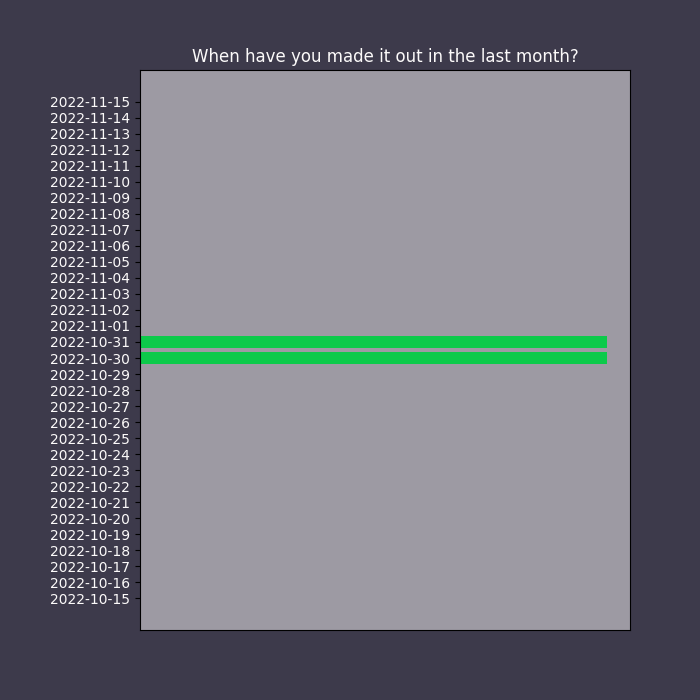
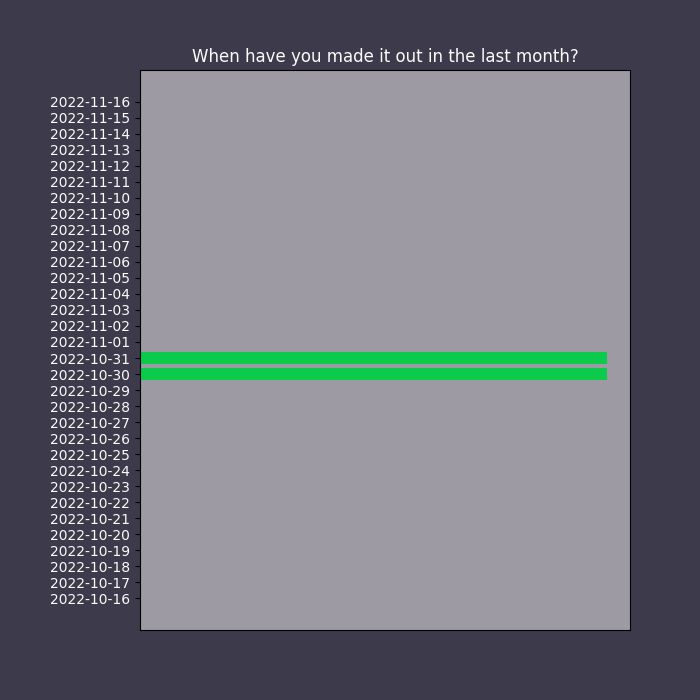
heatmap live

diff --git a/static/css/style.css b/static/css/style.css
@@ -3,7 +3,7 @@
     --darkish-grey: #6d6a77;
     --lighter-grey: #9d9aa3;
     --offwhite: #fcfafa;
-    --lightest-grey: c8d3d5;
+    --lightest-grey: #c8d3d5;
     --grey-blue: #a4b8c4;
     --accent-green: #0cca4a;
 }
@@ -17,23 +17,28 @@ body {
     
 }
 
+#climber-monthly-graph {
+    width: 300px;
+    border: solid 5px #3d3a4b;
+}
+
 #page-wrapper {
     display: flex;
     flex-direction: column;
     height: 120vh;
 }
 
-#nav-logo {
-    color:#0cca4a;
-    font-weight: bolder;
+#nav-logo img{
+    height: 120px;
+    color:white;
     margin-right: auto;
-    font-size: large;
 }
 
 #corbett-banner {
     width: 100%;
     border-bottom: solid 2px #a4b8c4;
     margin-bottom: 2rem;
+    position:absolute;
 }
 
 li {
@@ -51,7 +56,7 @@ nav {
 
 nav ul {
     display: flex;
-    margin: 0;
+    margin: -20px 2rem;
     padding: 1rem;
     justify-content: flex-end;
     gap: 1rem;
@@ -97,6 +102,7 @@ a:hover {
 .submenu li {
     list-style: none;
 }
+
 
 main {
     background: #6d6a77;
@@ -153,6 +159,10 @@ header {
     font-size: larger;
 }
 
+#start-def {
+    margin-top: 400px;
+}
+
 table {
     color:#fcfafa;
 }
@@ -188,6 +198,12 @@ button.climber-profile-button, button#new-ascent-button, #new-sign-up-btn {
     color: #fcfafa;
 }
 
+#bs-ascents {
+    display: flex;
+    justify-content: center;
+    flex-direction: column;
+}
+
 @media (max-width: 480px) {
     #corbett-banner {
         width: 100%;
@@ -202,11 +218,16 @@ button.climber-profile-button, button#new-ascent-button, #new-sign-up-btn {
     }
     
     #climber-monthly-graph {
-        width: 80%;
+        width: 50%;
+        border: solid 5px #3d3a4b;
     }
     
     p {
         width: 80%;
+    }
+    
+    nav ul {
+        padding: -20px 0
     }
 }
 
@@ -228,6 +249,12 @@ button.climber-profile-button, button#new-ascent-button, #new-sign-up-btn {
     }
     
     #climber-monthly-graph {
-        width: 80%;
+        width: 50%;
+        border: solid 5px #3d3a4b;
     }
+    
+    nav ul {
+        padding: -20px 0
+    }
+    
 }

diff --git a/templates/climbers/show.html b/templates/climbers/show.html
@@ -1,8 +1,13 @@
 {% extends 'base.html' %} {% block main %}
 <h3>Been on a climb?</h3>
-<a href="/ascents/new"><button id="new-ascent-button">Add a new ascent</button></a>
+<a href="/ascents/new"
+  ><button id="new-ascent-button">Add a new ascent</button></a
+>
 <h2>{{climber.name}} these are your stats</h2>
-<h3>You've hit {{ percent_completed[0] }} summits. That's {{ percent_completed[1] }}% of the total. Well done - now go get the next one!</h3>
+<h3>
+  You've hit {{ percent_completed[0] }} summits. That's {{ percent_completed[1]
+  }}% of the total. Well done - now go get the next one!
+</h3>
 <table>
   <tr>
     <th>Corbett</th>
@@ -38,5 +43,9 @@
 </table>
 <h3>Total climbed:</h3>
 <h2>{{ total_m_climbed }} m</h2>
-<img id="climber-monthly-graph" src="/static/images/monthly_plot_{{climber.id}}.png" alt="monthly activity chart">
+<img
+  id="climber-monthly-graph"
+  src="/static/images/monthly_heat_{{climber.id}}.png"
+  alt="monthly activity chart"
+/>
 {% endblock main %}

diff --git a/templates/index.html b/templates/index.html
@@ -1,18 +1,18 @@
 {% extends 'base.html' %} {% block main %}
 <img
   id="corbett-banner"
-  src="/static/images/corbett-banner.jpeg"
+  src="/static/images/background_transp.png"
   alt="corbett banner"
 />
-<p id="start-def" class="start-intro">
+<h2 id="start-def" class="start-intro">
   Corbett. / (ˈkɔːbət) / noun. mountaineering any separate mountain peak between
   2500 feet and 3000 feet high: originally used of Scotland only, but now
   sometimes extended to other parts of the British Isles. Slang.
-</p>
-<p class="start-intro">
+</h2>
+<h2 class="start-intro">
   The less well know siblings of the Munros, their summits vary in altitude
   between 762m and 914m. At current reckoning there are 222 to bag, and so far
   678 people have climbed them all.
-</p>
-<p class="start-intro">Are you going to be the next Corbiteer?</p>
+</h2>
+<h2 class="start-intro">Are you going to be the next Corbiteer?</h2>
 {% endblock main %}

diff --git a/templates/climbers/new.html b/templates/climbers/new.html
@@ -1,11 +1,10 @@
-{% extends 'base.html' %}
-{% block main %}
+{% extends 'base.html' %} {% block main %}
 <section class="join-form">
-    <h2>Would you like to join the Corbett climber community?</h2>
-    <form action="/climbers" method="post">
-      <label for="name">Name: </label
-      ><input type="text" name="name" id="climber-name-input" />
-      <button type="submit" id="new-sign-up-btn">Sign up</button>
-    </form>
-  </section>
+  <h2>Would you like to join the Corbett climber community?</h2>
+  <form action="/climbers" method="post">
+    <label for="name">Name: </label
+    ><input type="text" name="name" id="climber-name-input" />
+    <button type="submit" id="new-sign-up-btn">Sign up</button>
+  </form>
+</section>
 {% endblock main %}

diff --git a/templates/base.html b/templates/base.html
@@ -16,9 +16,7 @@
         {% block header %}
         <nav>
           <ul>
-            <a id="nav-logo" href="/">Climb Corbetts</a>
-            <li><a href="/hills">Hills</a></li>
-            <li><a href="/ascents">Ascents</a></li>
+            <li><a id="nav-logo" href="/"><img src="/static/images/final_logo.png" alt="Climb corbetts"></a></li>
             <li class="dropdown">
               <a><span>Climbers</span></a>
               <ul class="submenu">
@@ -26,6 +24,8 @@
                 <li><a href="/climbers/new">Add new climber</a></li>
               </ul>
             </li>
+            <li><a href="/hills">Hills</a></li>
+            <li><a href="/ascents">Ascents</a></li>
           </ul>
         </nav>
         {% endblock header %}

diff --git a/templates/ascents/index.html b/templates/ascents/index.html
@@ -1,4 +1,5 @@
 {% extends 'base.html' %}{% block main %}
+<div id="bs-ascents">
 <h2>These are the most recent ascents</h2>
 <table>
   <tr>
@@ -40,4 +41,5 @@
   {% endif %}
   {% endfor %}
 </table>
+</div>
 {% endblock main %}

diff --git a/repositories/climber_repository.py b/repositories/climber_repository.py
@@ -7,6 +7,7 @@ matplotlib.use("AGG")
 from datetime import datetime, date
 import pdb
 import pandas
+import july
 
 
 def save(climber):
@@ -96,7 +97,7 @@ def monthly_bar(id):
     df = pandas.DataFrame(list(days.items()))
     print(f"this is df for id {id}")
     print(df[0])
-    pyplot.figure(figsize=(7, 7), facecolor="#3d3a4b")
+    pyplot.figure(figsize=(3, 3), facecolor="#3d3a4b")
     pyplot.axes([0.2,0.1,0.7,0.8], facecolor="#9d9aa3")
     pyplot.yticks(color="#fcfafa")
     pyplot.barh(df[0], df[1], color="#0cca4a")
@@ -108,13 +109,36 @@ def monthly_bar(id):
     pyplot.close()
     return
 
+def monthly_heat(id):
+    sql = "select CAST (date as varchar) from ascents where date >= (current_date - 30) and date < current_date and climber_id = %s group by date, climber_id"
+    values = [id]
+    results = run_sql(sql, values)
+    today = date.today()
+    today_less_month = date.today().replace(month=today.month - 1)
+    last_month = pandas.date_range(today_less_month, today)
+    days = {}
+    for day in last_month:
+        days[day.strftime("%Y-%m-%d")] = 0
+    for result in results:
+        for day in days:
+            if day == result[0]:
+                days.update({day: 1})
+    df = pandas.DataFrame(list(days.items()))
+    month_heat = july.heatmap(df[0], df[1], title='Monthly Activity', cmap=matplotlib.colors.LinearSegmentedColormap.from_list("", ["#c8d3d5","#9d9aa3","#0cca4a"])).get_tightbbox()
+    pyplot.savefig(f"./static/images/monthly_heat_{id}.png", bbox_inches="tight")
+    pyplot.clf()
+    pyplot.cla()
+    pyplot.close()
+    return
 
-def greeting(today):
+
+def greeting():
+    today = datetime.today()
     hour = today.hour
     greeting = ""
-    if hour > 0 and hour < 12:
+    if hour >= 0 and hour < 12:
         greeting = "Morning"
-    elif hour > 12 and hour < 18:
+    elif hour >= 12 and hour < 18:
         greeting = "Afternoon"
     else:
         greeting = "Evening"

diff --git a/contollers/climbers_controller.py b/contollers/climbers_controller.py
@@ -13,7 +13,7 @@ climbers_blueprint = Blueprint("climbers", __name__)
 def climbers():
     today = datetime.now()
     climbers = climber_repo.select_all()
-    greeting = climber_repo.greeting(today)
+    greeting = climber_repo.greeting()
     return render_template("climbers/index.html", climbers=climbers, greeting=greeting)
 
 
@@ -64,5 +64,5 @@ def show_climber(id):
     hills = hill_repo.select_all()
     total_m_climbed = climber_repo.total_climbing_height(id)
     percent_completed = climber_repo.amount_completed(id)
-    climber_repo.monthly_bar(id)
+    climber_repo.monthly_heat(id)
     return render_template("/climbers/show.html", climber=climber, ascents=ascents, climbs=climbs, hills=hills, total_m_climbed=total_m_climbed, percent_completed=percent_completed)

diff --git a/console.py b/console.py
@@ -482,6 +482,4 @@ ascent_repo.save(ascent_6)
 ascent_7 = Ascent('2022-10-25', 'trial ascent desc', climber_2, hill_1)
 ascent_repo.save(ascent_7)
 
-climber_repo.monthly_bar(1)
-climber_repo.monthly_bar(2)
-climber_repo.monthly_bar(3)
+climber_repo.monthly_heat(1)
